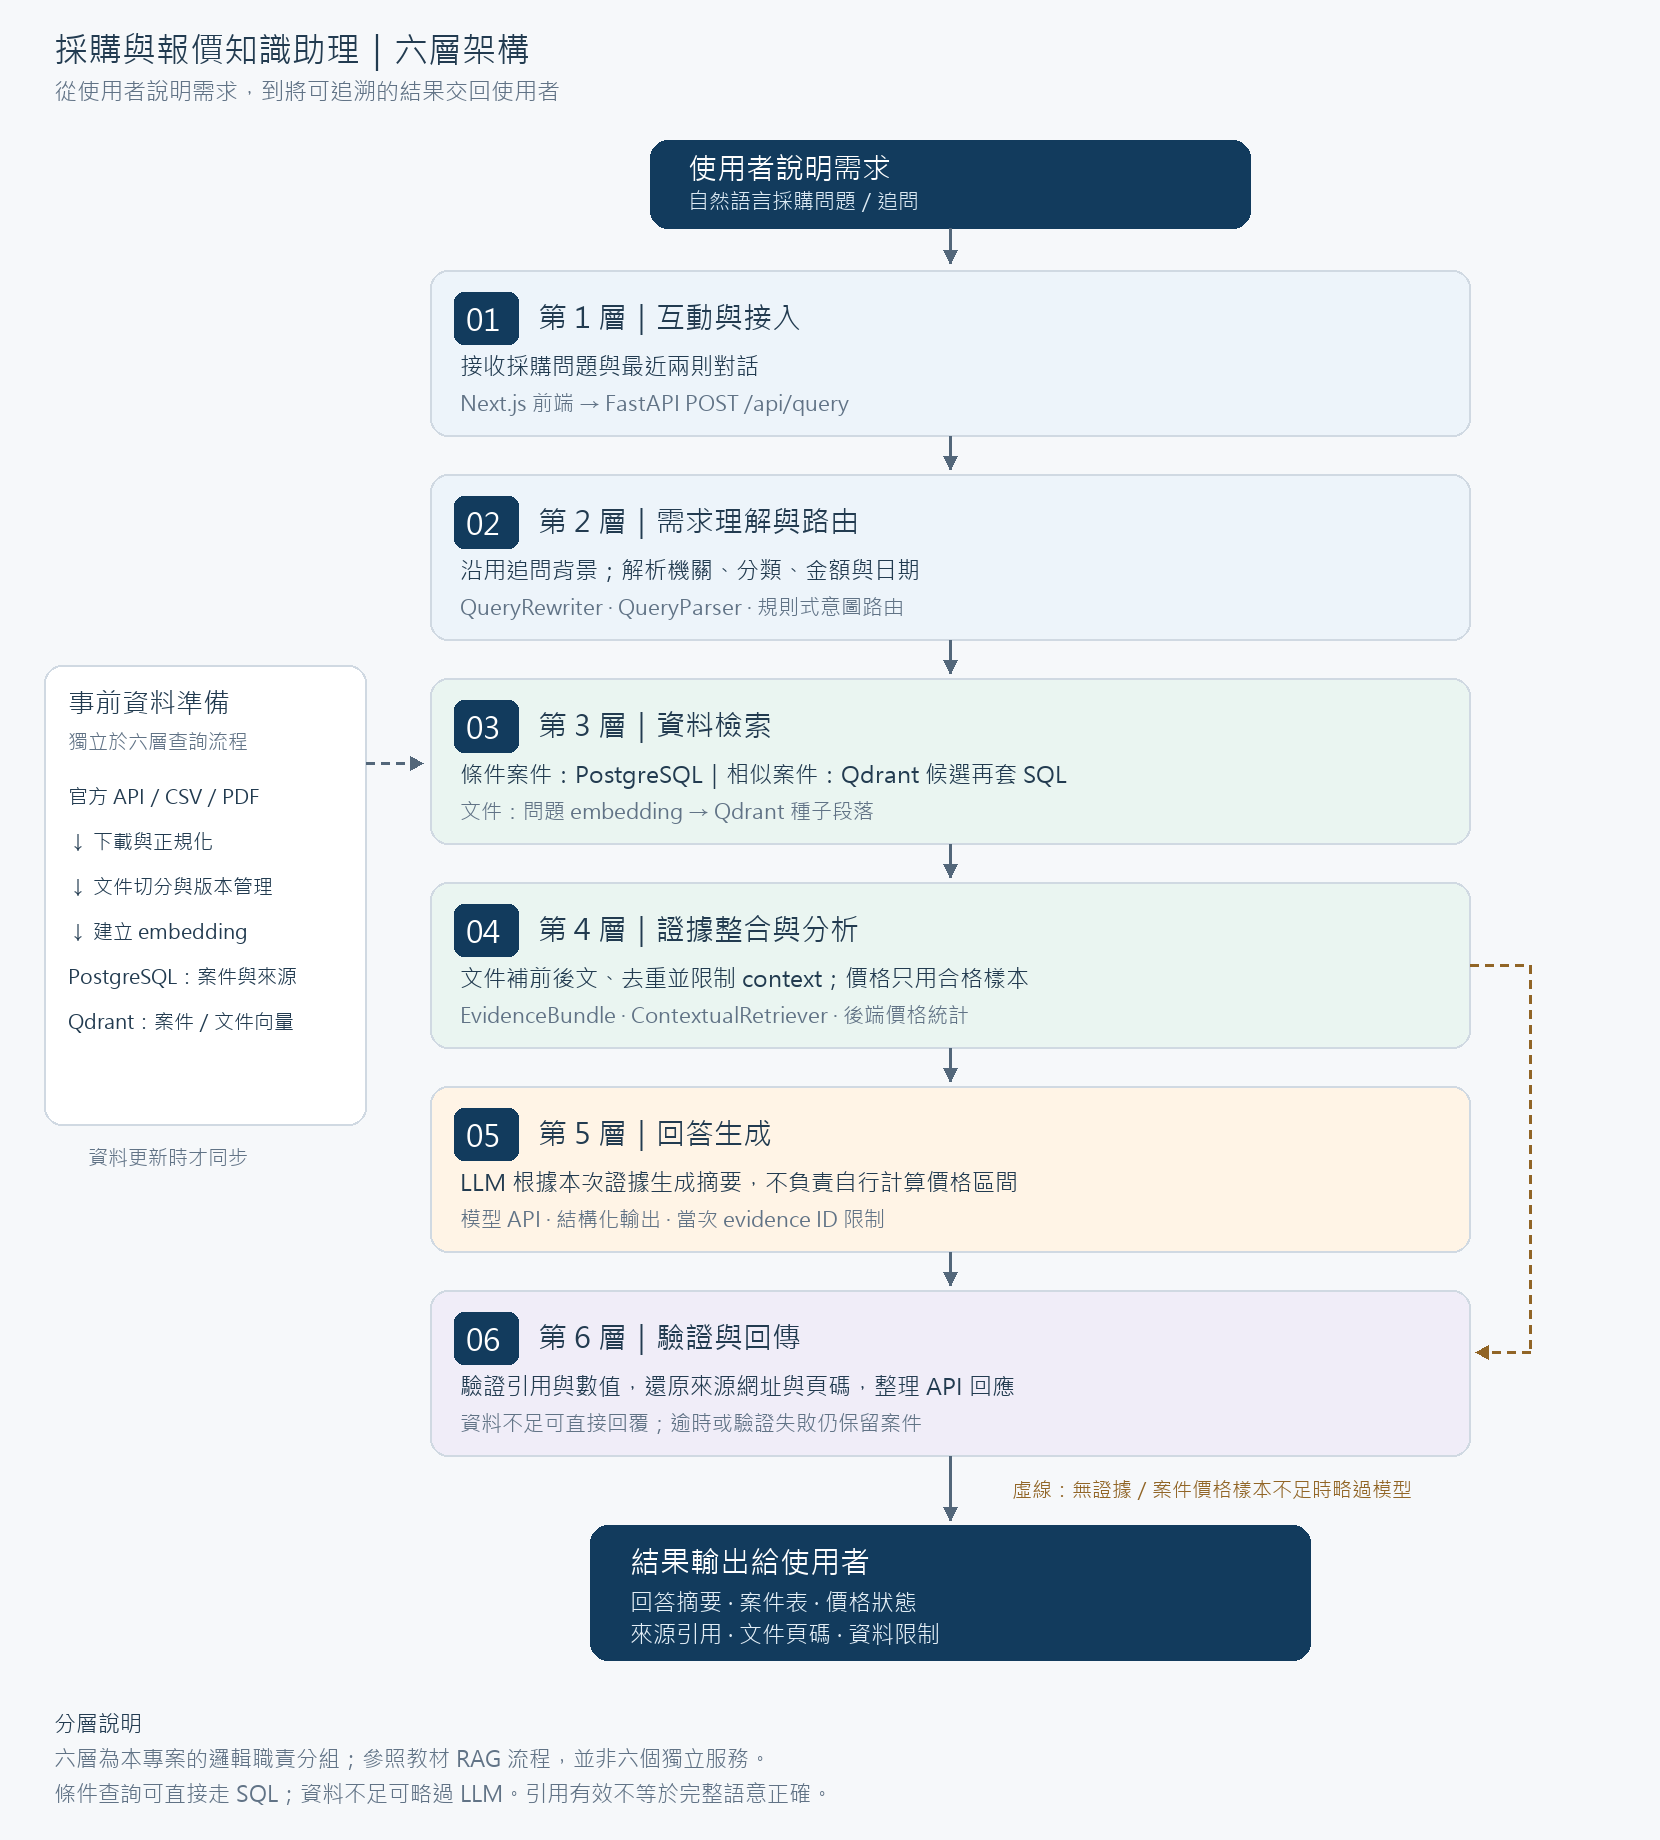
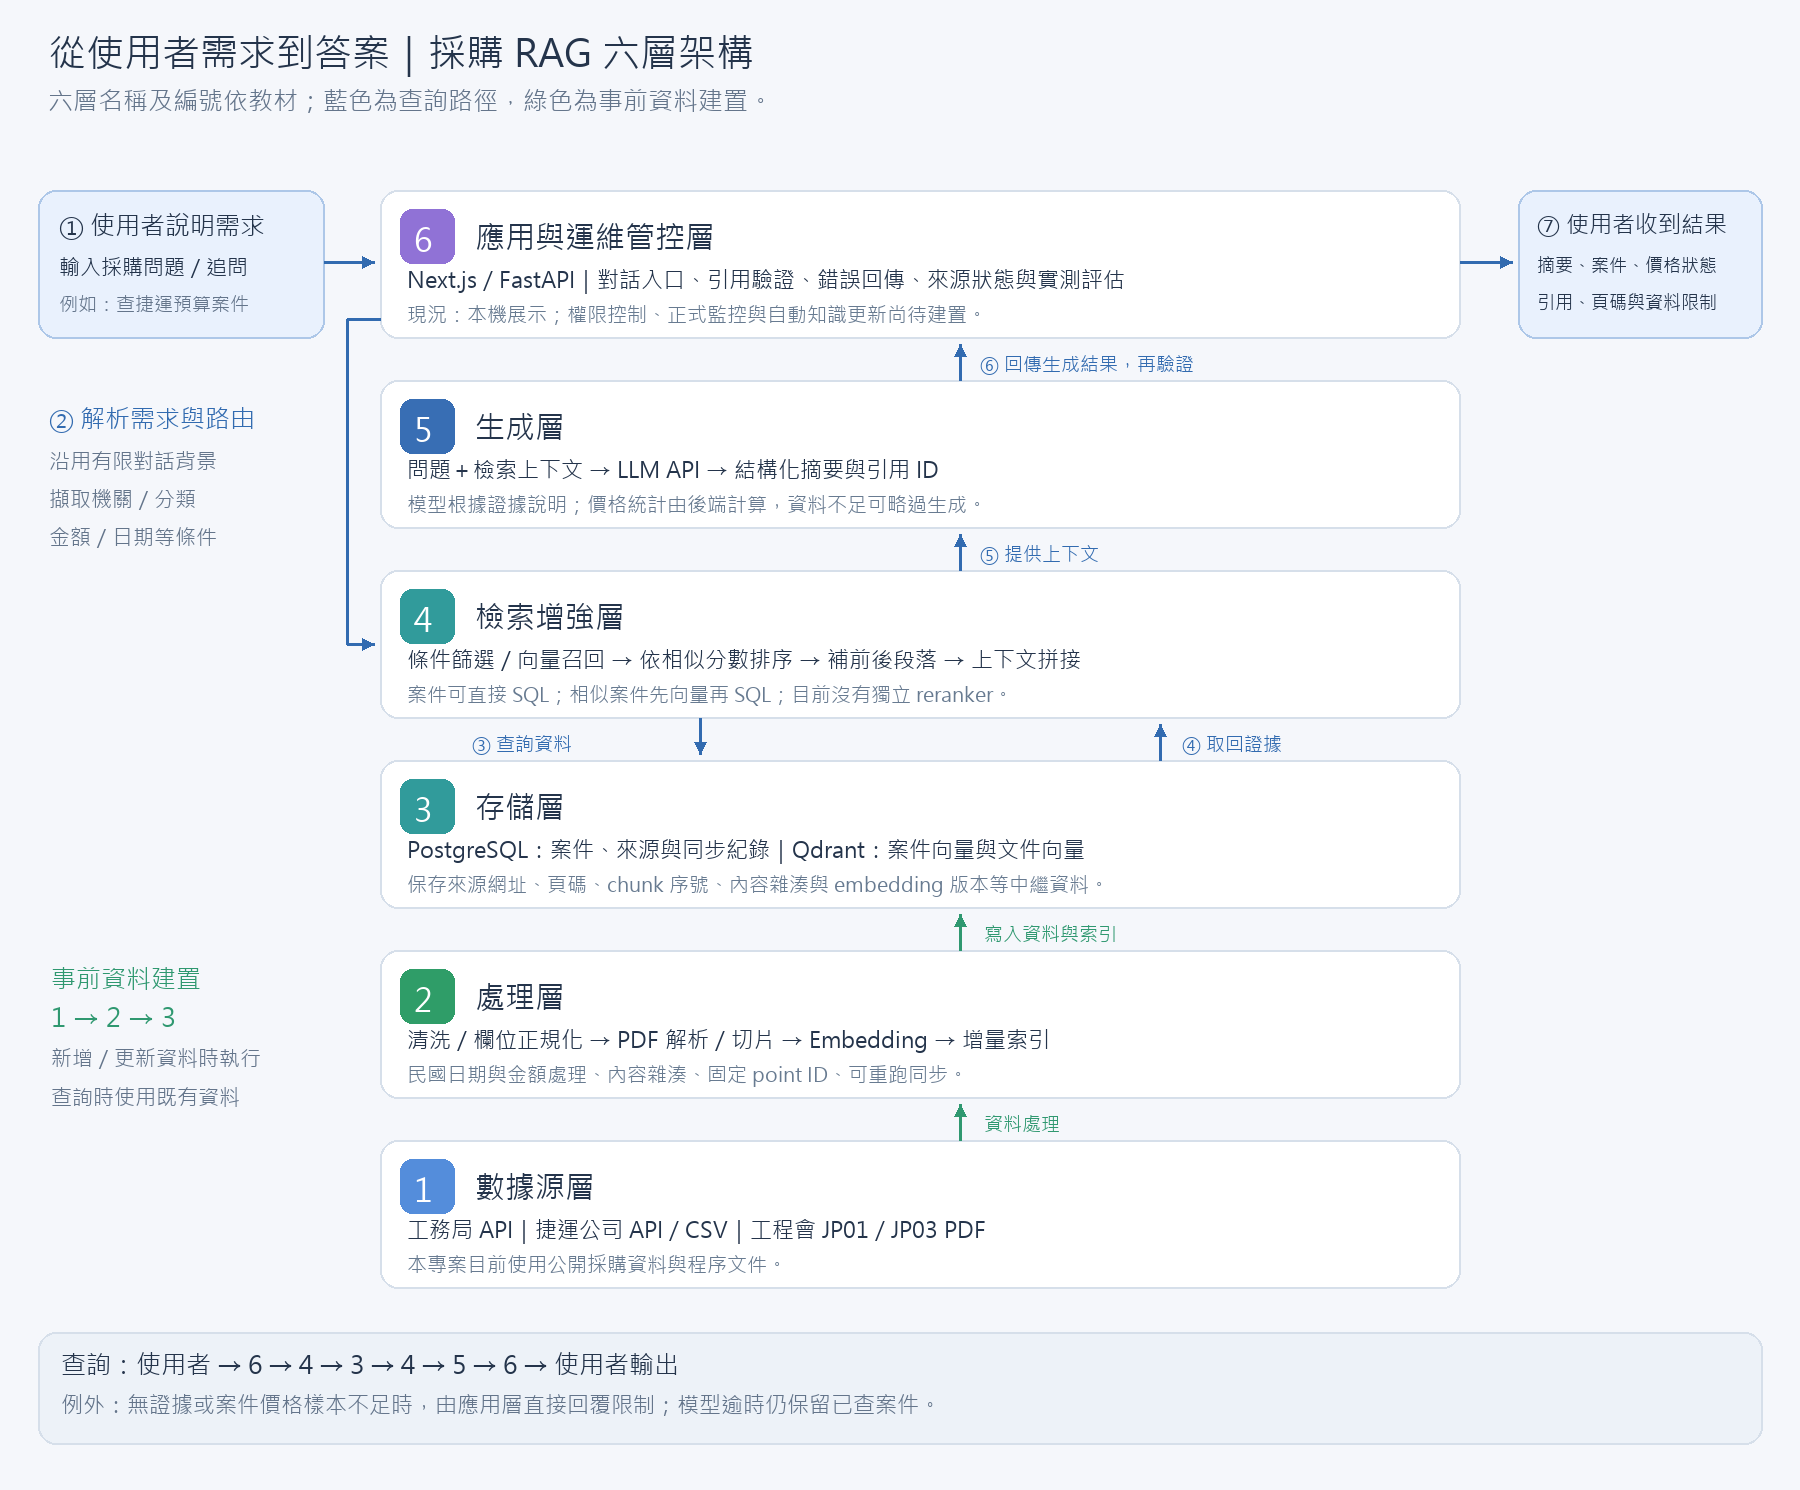
docs: align RAG diagram with textbook six-layer architecture [skip ci]

diff --git a/docs/architecture.md b/docs/architecture.md
@@ -1,38 +1,47 @@
-# 從使用者需求到結果：六層架構
+# 採購 RAG：依教材六層架構
 
-![採購 RAG 六層架構](diagrams/procurement-rag-six-layers.svg)
+![教材六層對應本專案](diagrams/procurement-rag-six-layers.svg)
 
-本圖依教材「提問 → 檢索 → 補入上下文 → 生成答案 → 回到使用者」的 RAG 流程概念，將本專案實際職責整理為六層。教材現有架構圖片沒有明列六層名稱，因此以下是本專案的分層命名，不宣稱是教材原文。
+本圖依使用者提供的「企業級 RAG 的六層架構」圖片，保留原六層名稱與編號。使用者輸入、使用者輸出置於六層之外；層級由上而下排列為 6、5、4、3、2、1，與教材一致。
 
-「使用者說明需求」與「結果輸出給使用者」是起點、終點，不列入六層。資料同步與建索引屬事前準備，放在主流程旁邊，也不列入六層。
+六層是責任分層，不是每次提問依序走 1→6 的六個步驟。資料建置與即時查詢分開閱讀：
+
+- **資料建置：** 1 數據源層 → 2 處理層 → 3 存儲層。新增或更新資料時執行。
+- **使用者查詢：** 使用者說明需求 → 6 接入並解析 → 4 檢索增強 → 查詢 3 並取回證據 → 4 組合上下文 → 5 生成 → 6 驗證與呈現 → 使用者收到結果。
+- **例外處理：** 無證據或案件價格樣本不足時，由 6 直接回傳限制而略過 5；模型逾時或驗證失敗時保留已查案件。
 
 ```mermaid
 flowchart TB
-    USER([使用者說明需求<br/>自然語言採購問題／追問])
-    L1[第 1 層｜互動與接入<br/>Next.js 接收輸入及最近兩則對話<br/>FastAPI 接收 POST /api/query]
-    L2[第 2 層｜需求理解與路由<br/>追問背景沿用、條件解析<br/>決定案件／相似案件／文件／價格路徑]
-    L3[第 3 層｜資料檢索<br/>條件案件：PostgreSQL<br/>相似案件：Qdrant 候選再套 SQL<br/>文件：Qdrant 種子段落]
-    L4[第 4 層｜證據整合與分析<br/>文件補前後文、去重、限制 context<br/>價格篩選合格樣本並由後端計算<br/>整理 EvidenceBundle]
-    L5[第 5 層｜回答生成<br/>LLM 根據本次證據產生摘要<br/>結構化輸出限制可引用的 evidence ID]
-    L6[第 6 層｜驗證與回傳<br/>檢查引用及數值、還原來源與頁碼<br/>處理資料不足、模型逾時與驗證失敗<br/>整理 API 回應供前端呈現]
-    RESULT([結果輸出給使用者<br/>回答摘要、案件表、價格狀態<br/>來源引用、文件頁碼、資料限制])
-    PREP[事前資料準備｜不計入六層<br/>官方 API／CSV／PDF<br/>欄位正規化、文件切分、建立 embedding<br/>寫入 PostgreSQL 與 Qdrant]
-    USER --> L1 --> L2 --> L3 --> L4 --> L5 --> L6 --> RESULT
-    PREP -. 已準備的資料與索引 .-> L3
-    L4 -. 無證據，或案件價格樣本不足：略過模型 .-> L6
+    USER([使用者說明需求])
+    OUT([使用者收到結果<br/>摘要、案件、價格狀態、引用與限制])
+    L6[6｜應用與運維管控層<br/>Next.js／FastAPI、對話入口、條件解析與路由<br/>引用驗證、來源狀態、實測評估、錯誤回傳]
+    L5[5｜生成層<br/>LLM API、證據式摘要、結構化引用 ID]
+    L4[4｜檢索增強層<br/>SQL 條件與向量召回、分數排序、過濾<br/>相鄰段落、上下文拼接、價格樣本分析]
+    L3[3｜存儲層<br/>PostgreSQL 結構資料＋Qdrant 向量資料<br/>來源、頁碼、版本與同步紀錄]
+    L2[2｜處理層<br/>清洗、欄位正規化、PDF 解析與切片<br/>Embedding、內容雜湊與增量索引]
+    L1[1｜數據源層<br/>工務局 API、捷運公司 API／CSV<br/>工程會 JP01／JP03 PDF]
+    USER -->|問題與有限對話| L6
+    L6 -->|解析條件並選擇路徑| L4
+    L4 -->|查詢| L3
+    L3 -->|案件與文件證據| L4
+    L4 -->|上下文與後端統計| L5
+    L5 -->|生成結果| L6
+    L6 -->|驗證及整理回應| OUT
+    L1 -. 資料同步 .-> L2
+    L2 -. 建立資料及索引 .-> L3
 ```
 
-| 層級 | 作用 | 對應現有程式 |
+| 教材六層 | 本專案已實作 | 對應程式 |
 | --- | --- | --- |
-| 1. 互動與接入 | 接收問題、有限對話及 API 請求 | `frontend/src/components/QueryForm.tsx`、`frontend/src/app/page.tsx`、`backend/app/api/query.py` |
-| 2. 需求理解與路由 | 沿用追問背景，解析機關、分類、金額、日期；選擇檢索路徑 | `backend/app/answering/query_rewriter.py`、`backend/app/search/query_parser.py`、`backend/app/runtime.py` |
-| 3. 資料檢索 | SQL 條件搜尋、案件向量候選、文件種子段落 | `backend/app/search/case_repository.py`、`backend/app/retrieval/vector_repository.py` |
-| 4. 證據整合與分析 | 相鄰段落、去重與 context 上限；篩選價格樣本、確定性統計 | `backend/app/retrieval/contextual.py`、`backend/app/retrieval/schemas.py`、`backend/app/analysis/pricing.py`、`backend/app/runtime.py` |
-| 5. 回答生成 | 將問題、證據及價格結果送給模型，產生結構化摘要 | `backend/app/answering/openai.py`、`backend/app/answering/provider.py` |
-| 6. 驗證與回傳 | 引用／數值驗證、失敗時保留案件、整理回應並呈現 | `backend/app/answering/validator.py`、`backend/app/answering/service.py`、`frontend/src/components/AnswerPanel.tsx` |
+| 6. 應用與運維管控層 | Web／API、有限對話、需求解析與路由、來源狀態、引用與數值驗證、逾時回退、測試及評測紀錄 | `frontend/src/app/`、`backend/app/api/`、`backend/app/answering/service.py`、`query_rewriter.py`、`validator.py`、`backend/app/search/query_parser.py` |
+| 5. 生成層 | 根據本次證據生成摘要，結構化輸出限制可引用的 evidence ID | `backend/app/answering/openai.py`、`provider.py`、`prompts.py` |
+| 4. 檢索增強層 | 條件 SQL、向量候選再 SQL、相似分數排序、相鄰段落擴展與去重、context 上限、合格價格樣本與確定性統計 | `backend/app/runtime.py`、`backend/app/search/case_repository.py`、`backend/app/retrieval/vector_repository.py`、`contextual.py`、`backend/app/analysis/pricing.py` |
+| 3. 存儲層 | PostgreSQL 案件、來源與同步紀錄；Qdrant 案件及文件向量；保存來源／頁碼／版本等中繼資料 | `backend/app/db/`、`backend/app/retrieval/qdrant.py`、`collections.py` |
+| 2. 處理層 | API／CSV 正規化、民國日期及金額解析、PDF 切分、embedding、內容雜湊、可重跑同步 | `backend/app/ingestion/`、`backend/app/retrieval/embeddings.py`、`backend/app/cli.py` |
+| 1. 數據源層 | 工務局與捷運公開採購資料；工程會兩份程序文件 | README 資料來源、`docs/procedure-sources.json` |
 
-六層是邏輯職責，沒有拆成六個獨立服務；同一個 Python 模組可跨越數層。
+**教材能力與目前實作的界線：** 教材列出企業級完整能力，本作品目前是本機公開資料展示。尚無獨立 reranker、權限控制／權限標籤、正式監控告警及自動知識更新；已提供來源狀態、基本服務健康檢查、測試與人工啟動同步。不能將六層都畫出來解讀為教材每項能力都已實作。
 
-面試講法：「使用者先用自然語言描述需求；第一層接收請求，第二層解析需求並選擇路徑，第三層查資料，第四層整理證據與計算合格的價格統計，第五層請模型生成摘要，第六層驗證並回傳，最後讓使用者看到案件、引用及限制。」
+面試說明：「使用者從第六層的 Web／API 說明需求，系統解析條件後交給第四層查詢第三層。第四層把案件或文件整理成上下文，送第五層生成摘要，再回第六層做引用及數值驗證，最後輸出給使用者。底下的一到三層則是事前把官方資料清洗、切片、向量化並保存的流程。」
 
-說明時須保留的界線：目前路由與追問沿用以規則為主；條件案件可直接查 SQL，不會全部都做 embedding；價格不足會略過模型；模型逾時仍保留案件；引用與數字驗證不等於完整語意正確。圖中不包含尚未實作的完整語意改寫、獨立 reranker 或公開部署。
+六層是邏輯責任，不是六個獨立服務；同一模組可能承擔多層職責。條件案件可直接查 SQL，不會全部都做 embedding；引用與數值驗證不代表完整語意正確。

diff --git a/README.md b/README.md
@@ -15,9 +15,9 @@
 
 ![從使用者需求到結果的六層架構](docs/diagrams/procurement-rag-six-layers.svg)
 
-流程：使用者說明需求 → ①互動與接入 → ②需求理解與路由 → ③資料檢索 → ④證據整合與分析 → ⑤回答生成 → ⑥驗證與回傳 → 結果輸出給使用者。
+六層沿用教材定義，由上而下為：⑥應用與運維管控層、⑤生成層、④檢索增強層、③存儲層、②處理層、①數據源層。
 
-六層為本專案的邏輯職責分組。資料同步與索引建立屬事前準備；無證據或案件價格樣本不足時，直接回傳限制並略過模型。完整流程、Mermaid 原始碼及程式對應見 [六層架構說明](docs/architecture.md)。
+使用者查詢：使用者說明需求 → ⑥接入與解析 → ④檢索並查詢③存儲 → ④組合證據 → ⑤生成 → ⑥驗證與呈現 → 使用者輸出。資料建置則為①→②→③；無證據或案件價格樣本不足時略過模型。完整流程、Mermaid 原始碼、程式對應與尚未實作的企業能力見 [六層架構說明](docs/architecture.md)。
 
 ## 本機啟動
 
